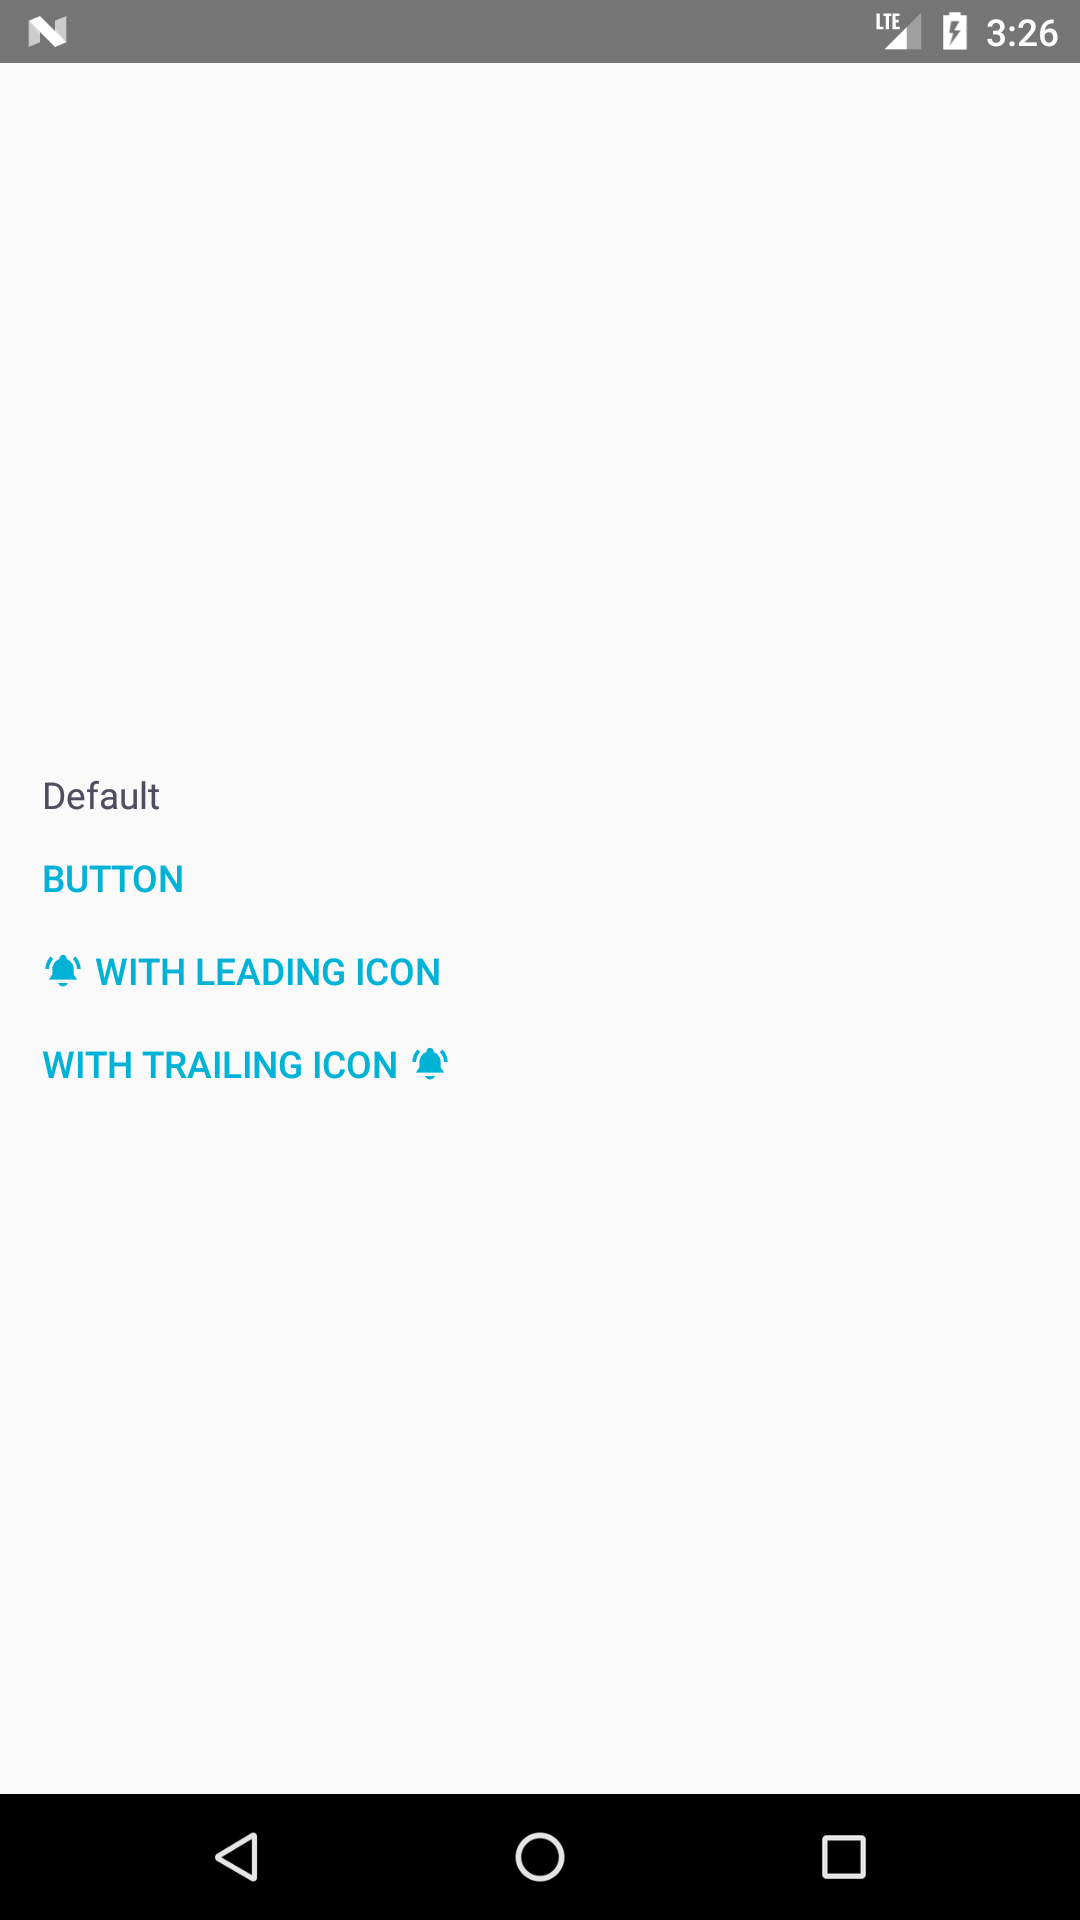
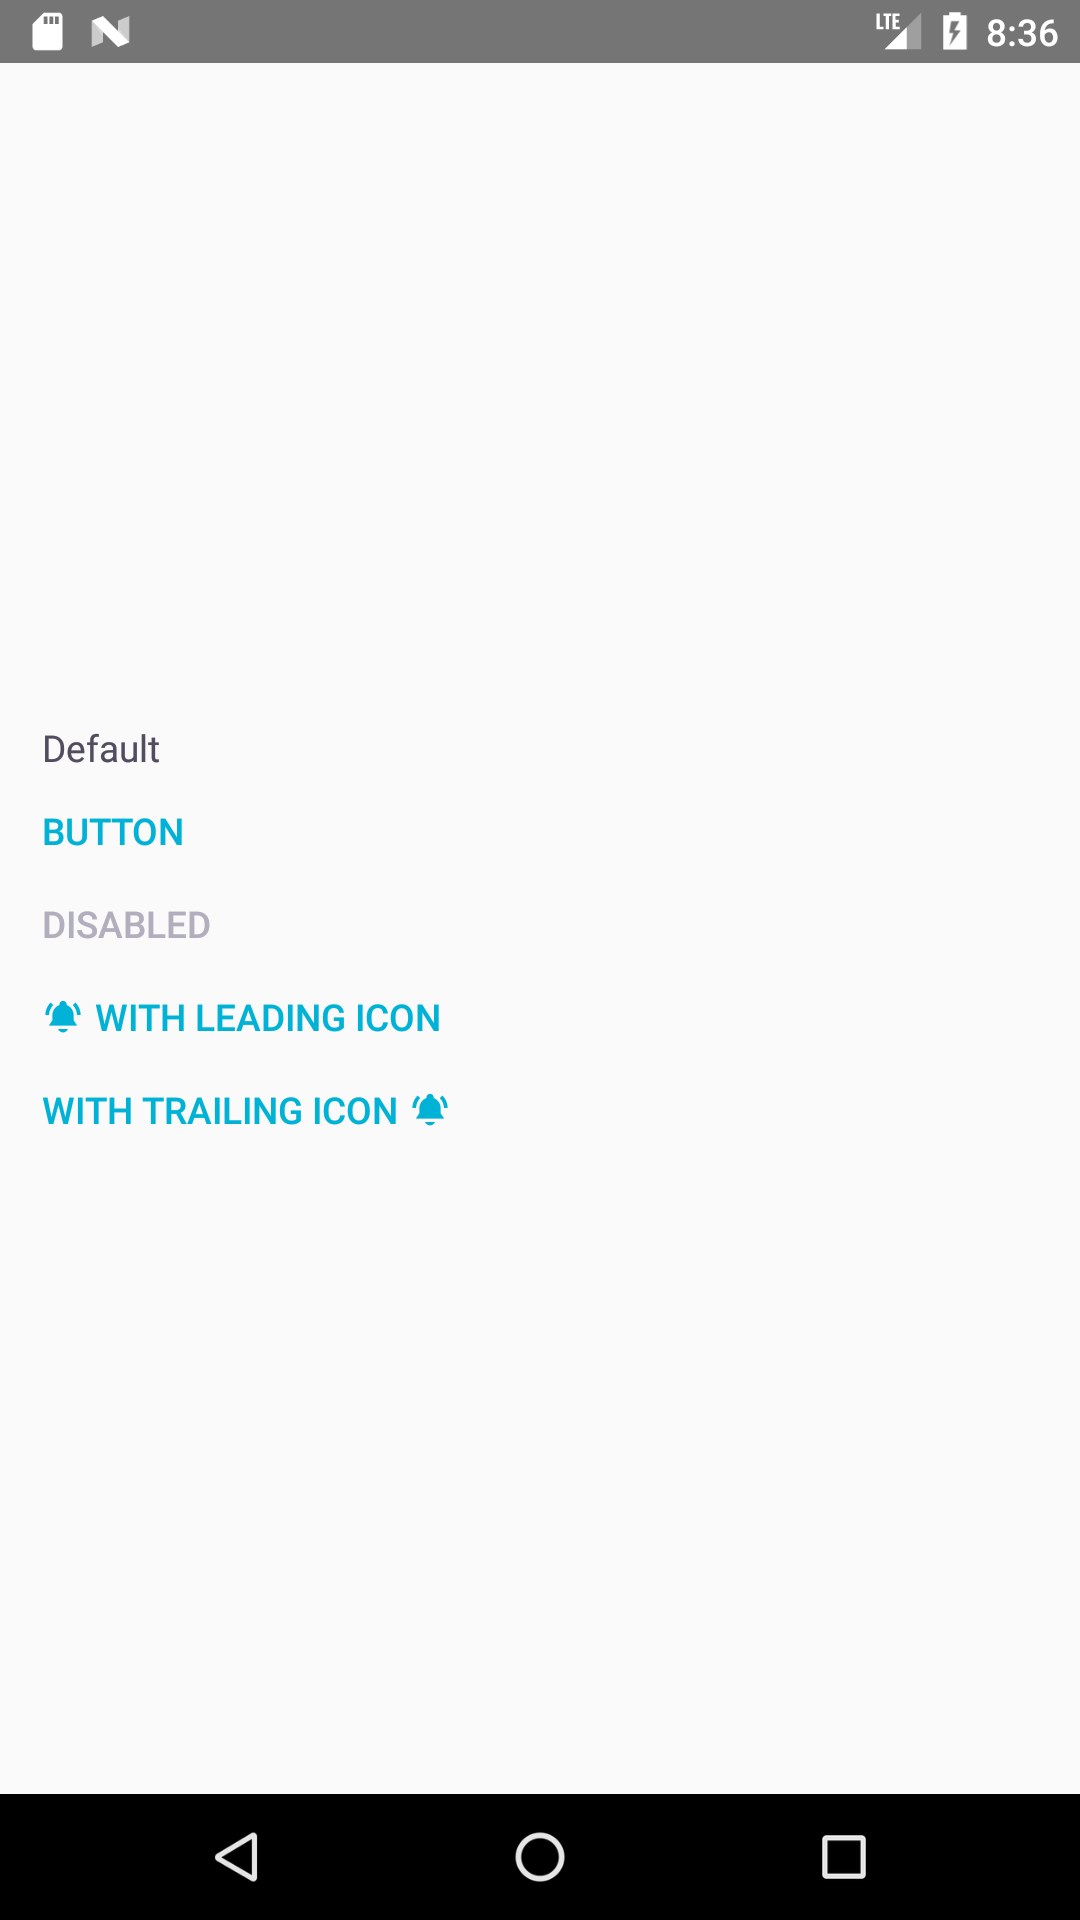
[BPK-1391] disabled prop support for native link buttons

Changed region(s): [[0.0306, 0.375, 0.4278, 0.5938], [0.0306, 0.0, 0.1222, 0.0312]]

diff --git a/native/packages/react-native-bpk-component-button-link/src/BpkButtonLink.android.js b/native/packages/react-native-bpk-component-button-link/src/BpkButtonLink.android.js
@@ -42,6 +42,7 @@ export type Props = {
 const BpkButtonLink = (props: Props) => {
   const {
     accessibilityLabel,
+    disabled,
     icon,
     iconAlignment,
     onPress,
@@ -61,6 +62,8 @@ const BpkButtonLink = (props: Props) => {
   const viewStyle = [styles.view];
   const iconStyle = [styles.icon];
 
+  const accessibilityTraits = ['button'];
+
   if (iconAlignment === ICON_ALIGNMENTS.leading) {
     viewStyle.push(styles.viewLeading);
     iconStyle.push(styles.iconLeading);
@@ -69,6 +72,11 @@ const BpkButtonLink = (props: Props) => {
   if (themeStyle) {
     textStyle.push(themeStyle);
     iconStyle.push(themeStyle);
+  }
+
+  if (disabled) {
+    textStyle.push(styles.disabled);
+    accessibilityTraits.push('disabled');
   }
 
   if (style) {
@@ -80,8 +88,9 @@ const BpkButtonLink = (props: Props) => {
       <BpkTouchableNativeFeedback
         accessibilityComponentType="button"
         accessibilityLabel={accessibilityLabel || title}
-        accessibilityTraits={['button']}
+        accessibilityTraits={accessibilityTraits}
         onPress={onPress}
+        disabled={disabled}
         style={styles.button}
         icon={icon}
         {...rest}

diff --git a/native/packages/react-native-bpk-component-button-link/src/BpkButtonLink.ios.js b/native/packages/react-native-bpk-component-button-link/src/BpkButtonLink.ios.js
@@ -43,6 +43,7 @@ export type Props = {
 const BpkButtonLink = (props: Props) => {
   const {
     accessibilityLabel,
+    disabled,
     icon,
     iconAlignment,
     large,
@@ -63,6 +64,8 @@ const BpkButtonLink = (props: Props) => {
   const textStyle = [styles.text];
   const iconStyle = [styles.icon];
 
+  const accessibilityTraits = ['button'];
+
   if (iconAlignment === ICON_ALIGNMENTS.leading) {
     viewStyle.push(styles.viewLeading);
     iconStyle.push(styles.iconLeading);
@@ -71,6 +74,11 @@ const BpkButtonLink = (props: Props) => {
   if (themeStyle) {
     textStyle.push(themeStyle);
     iconStyle.push(themeStyle);
+  }
+
+  if (disabled) {
+    textStyle.push(styles.disabled);
+    accessibilityTraits.push('disabled');
   }
 
   if (style) {
@@ -82,8 +90,9 @@ const BpkButtonLink = (props: Props) => {
       <TouchableOpacity
         accessibilityComponentType="button"
         accessibilityLabel={accessibilityLabel || title}
-        accessibilityTraits={['button']}
+        accessibilityTraits={accessibilityTraits}
         onPress={onPress}
+        disabled={disabled}
         icon={icon}
         {...rest}
       >

diff --git a/native/packages/react-native-bpk-component-button-link/src/common-types.js b/native/packages/react-native-bpk-component-button-link/src/common-types.js
@@ -32,6 +32,7 @@ export const ICON_ALIGNMENTS = {
 export type CommonProps = {
   onPress: (event: SyntheticEvent<>) => void,
   title: string,
+  disabled: boolean,
   accessibilityLabel: ?string,
   icon: ?Node,
   iconAlignment: $Keys<typeof ICON_ALIGNMENTS>,
@@ -44,6 +45,7 @@ export type CommonProps = {
 export const commonPropTypes = {
   onPress: PropTypes.func.isRequired,
   title: PropTypes.string.isRequired,
+  disabled: PropTypes.bool,
   accessibilityLabel: PropTypes.string,
   icon: PropTypes.node,
   iconAlignment: PropTypes.oneOf(Object.keys(ICON_ALIGNMENTS)),
@@ -53,6 +55,7 @@ export const commonPropTypes = {
 
 export const commonDefaultProps = {
   accessibilityLabel: null,
+  disabled: false,
   icon: null,
   iconAlignment: ICON_ALIGNMENTS.trailing,
   style: null,

diff --git a/native/packages/react-native-bpk-component-button-link/stories.js b/native/packages/react-native-bpk-component-button-link/stories.js
@@ -50,6 +50,13 @@ const createButtonStory = () => {
       />
       <BpkButtonLink
         large
+        disabled
+        title="Disabled"
+        onPress={action(`This should not be possible`)}
+        style={styles.buttonLinkStyles}
+      />
+      <BpkButtonLink
+        large
         title="With Leading icon"
         icon="alert--active"
         iconAlignment="leading"
@@ -73,6 +80,12 @@ const createButtonStory = () => {
       <BpkButtonLink
         title="Button"
         onPress={action(`Button pressed`)}
+        style={styles.buttonLinkStyles}
+      />
+      <BpkButtonLink
+        disabled
+        title="Disabled"
+        onPress={action('This should not be possible')}
         style={styles.buttonLinkStyles}
       />
       <BpkButtonLink

diff --git a/native/packages/react-native-bpk-component-button-link/src/BpkButtonLink-test.common.js b/native/packages/react-native-bpk-component-button-link/src/BpkButtonLink-test.common.js
@@ -38,6 +38,18 @@ const commonTests = () => {
       expect(tree).toMatchSnapshot();
     });
 
+    it('should support the "disabled" property', () => {
+      const onPressFn = jest.fn();
+
+      const tree = renderer
+        .create(
+          <BpkButtonLink disabled title="Lorem ipsum" onPress={onPressFn} />,
+        )
+        .toJSON();
+
+      expect(tree).toMatchSnapshot();
+    });
+
     it('should support the "icon" property', () => {
       const onPressFn = jest.fn();
 

diff --git a/native/packages/react-native-bpk-component-button-link/src/styles.js b/native/packages/react-native-bpk-component-button-link/src/styles.js
@@ -21,6 +21,7 @@
 import { StyleSheet } from 'react-native';
 import {
   colorBlue500,
+  colorGray300,
   borderRadiusSm,
   spacingSm,
   spacingMd,
@@ -41,6 +42,9 @@ const styles = StyleSheet.create({
   },
   text: {
     color: colorBlue500,
+  },
+  disabled: {
+    color: colorGray300,
   },
   icon: {
     color: colorBlue500,

diff --git a/native/packages/react-native-bpk-component-button-link/readme.md b/native/packages/react-native-bpk-component-button-link/readme.md
@@ -35,10 +35,8 @@ export default class App extends Component {
           title="Book flight"
           onPress={() => {}} />
         <BpkButtonLink
-          title="Book flight"
-          onPress={() => {}} />
-        <BpkButtonLink
-          title="Book flight"
+          title="Disabled"
+          disabled
           onPress={() => {}} />
         <BpkButtonLink
           large
@@ -53,11 +51,6 @@ export default class App extends Component {
           icon="baggage"
           iconAlignment="leading"
           onPress={() => {}} />
-        <BpkButtonLink
-          title="Book flight"
-          icon="baggage"
-          iconOnly
-          onPress={() => {}} />
       </View>
     );
   }
@@ -70,6 +63,7 @@ export default class App extends Component {
 | --------------------- | ------------------------------------------------------------------------- | -------- | ------------- |
 | onPress               | func                                                                      | true     | -             |
 | title                 | string                                                                    | true     | -             |
+| disabled              | bool                                                                      | false    | false         |
 | accessibilityLabel    | string                                                                    | false    | props.title   |
 | icon                  | oneOf(string, element) Strings must be a [BpkIcon](/components/web/icons) | false    | null          |
 | iconAlignment         | oneOf('leading', 'trailing')                                              | false    | trailing      |

diff --git a/changelog.md b/changelog.md
@@ -6,6 +6,9 @@
 - react-native-bpk-component-phone-input:
   - New `BpkDiallingCodeList` component.
 
+- react-native-bpk-component-button-link:
+  - New `disabled` prop.
+
 ## 2018-03-06 - New `BpkTouchableNativeFeedback` component
 
 **Added:**
